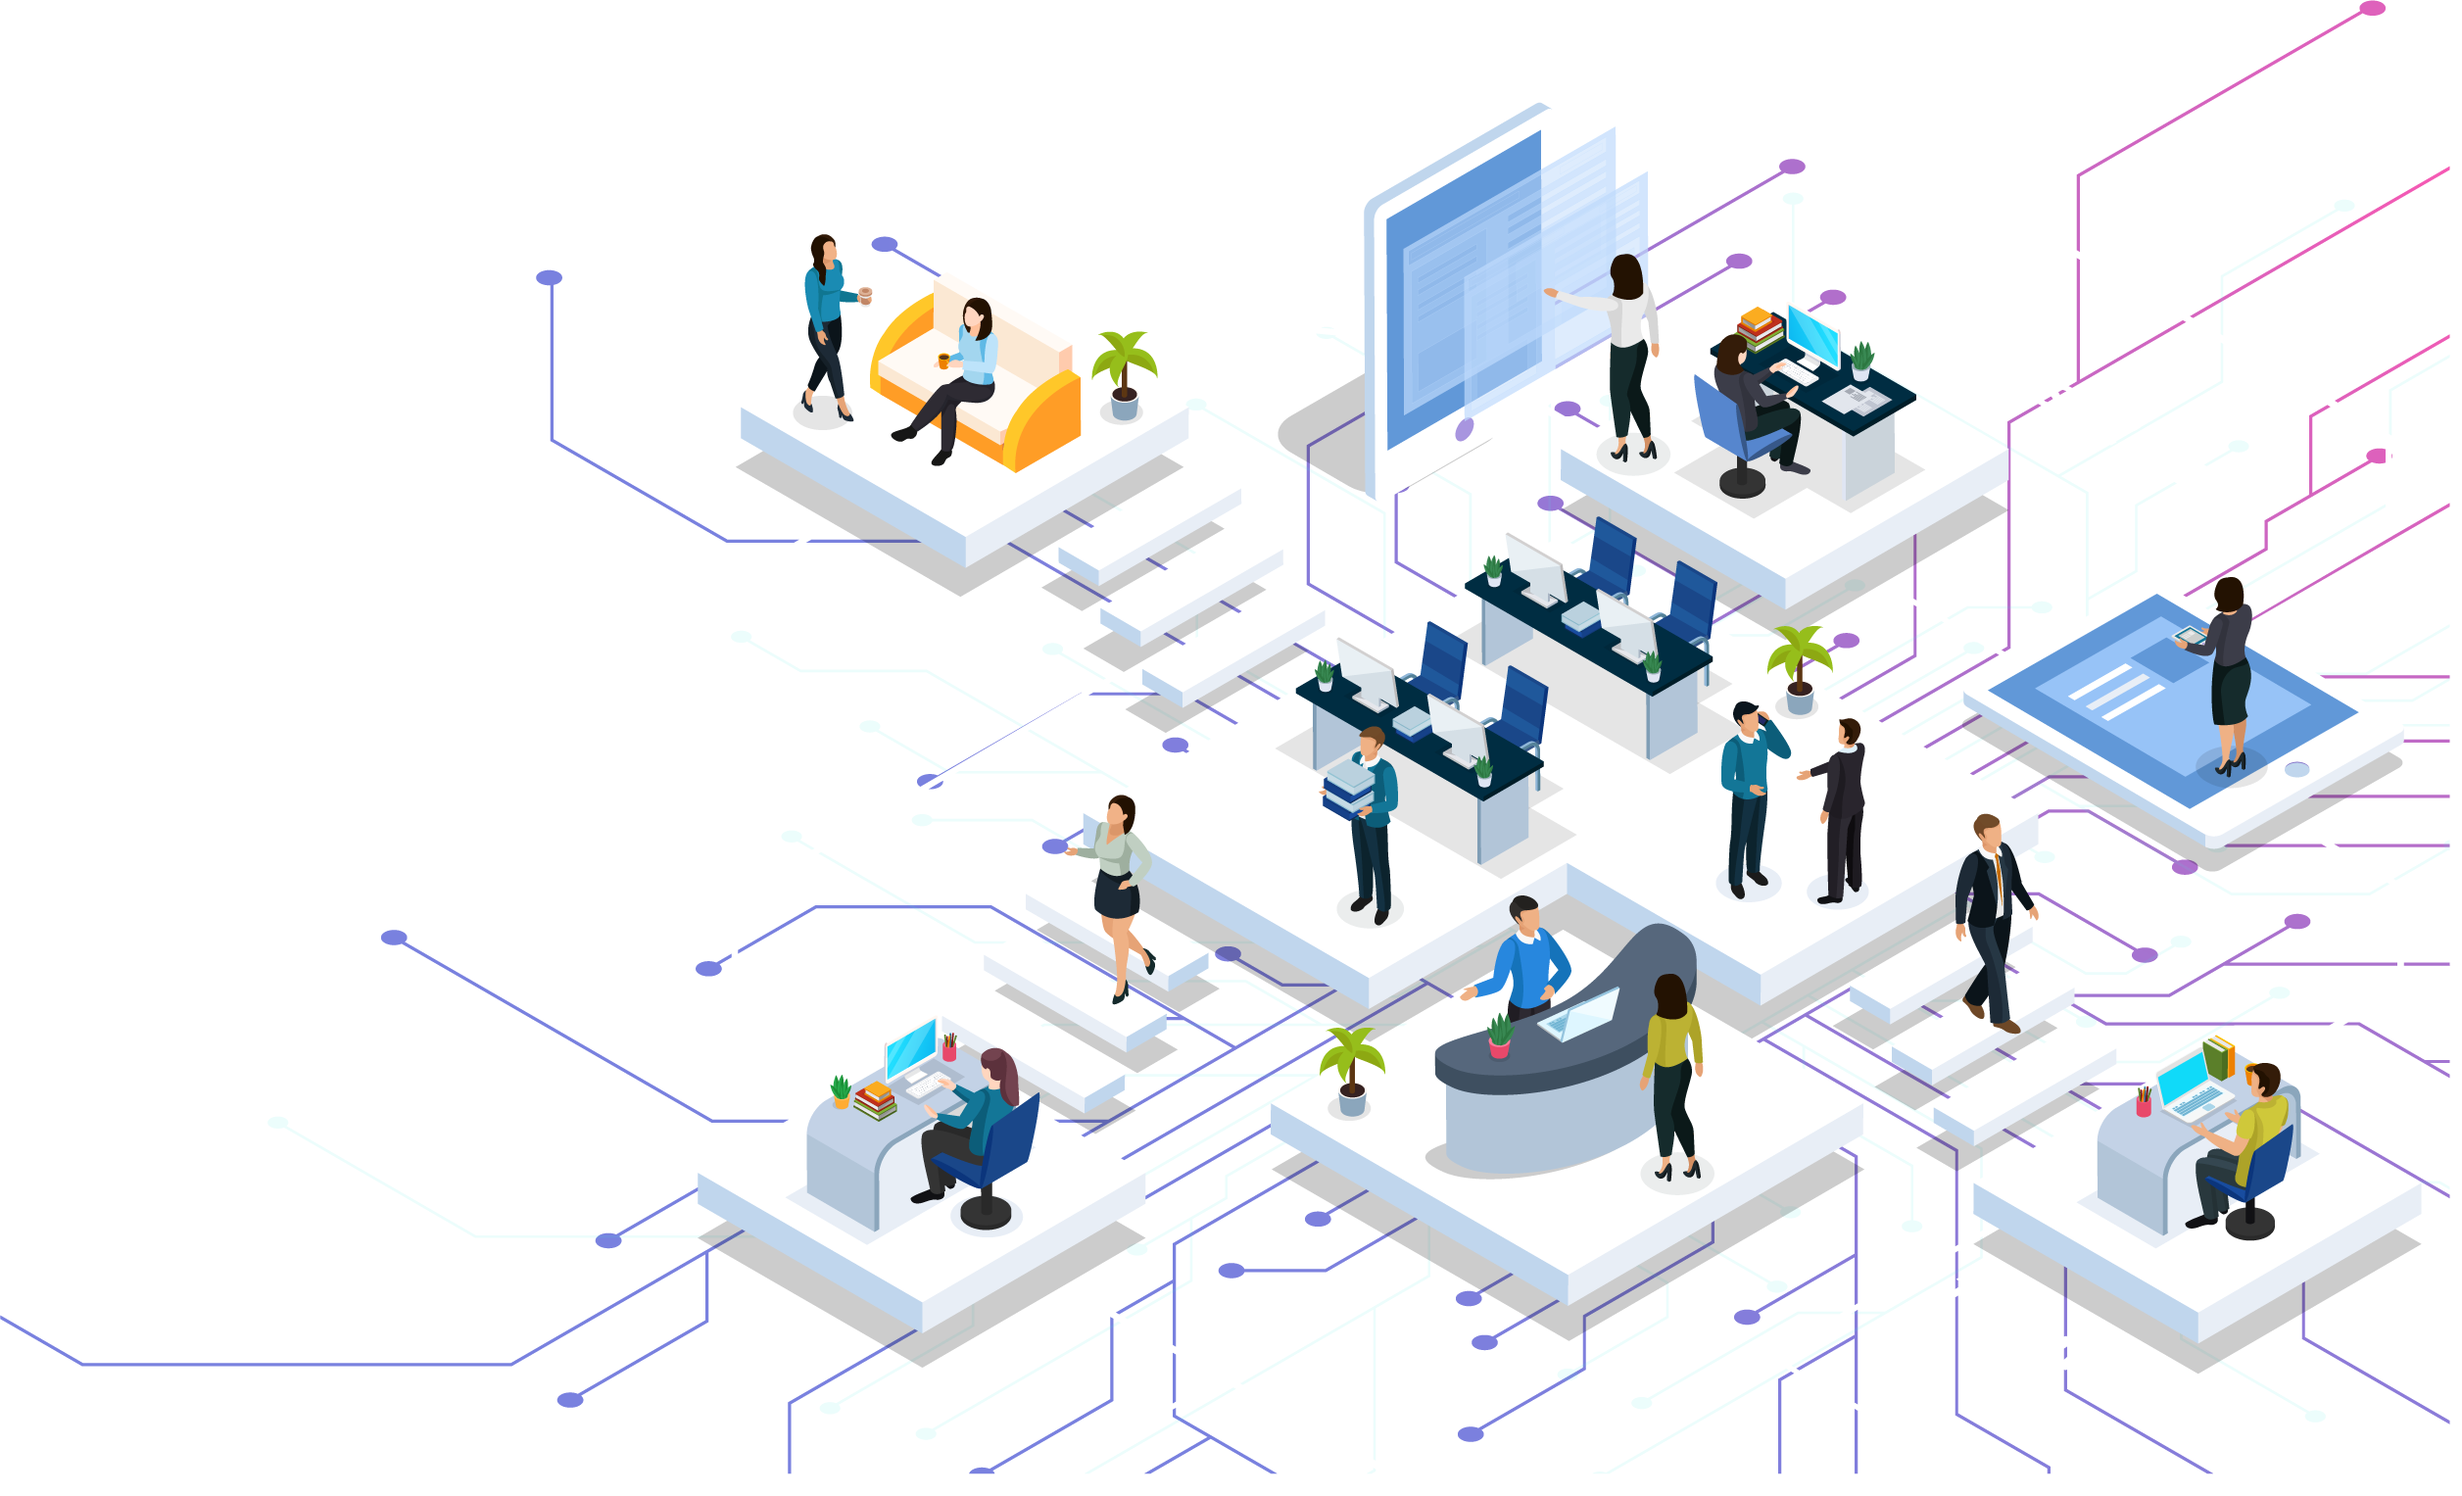
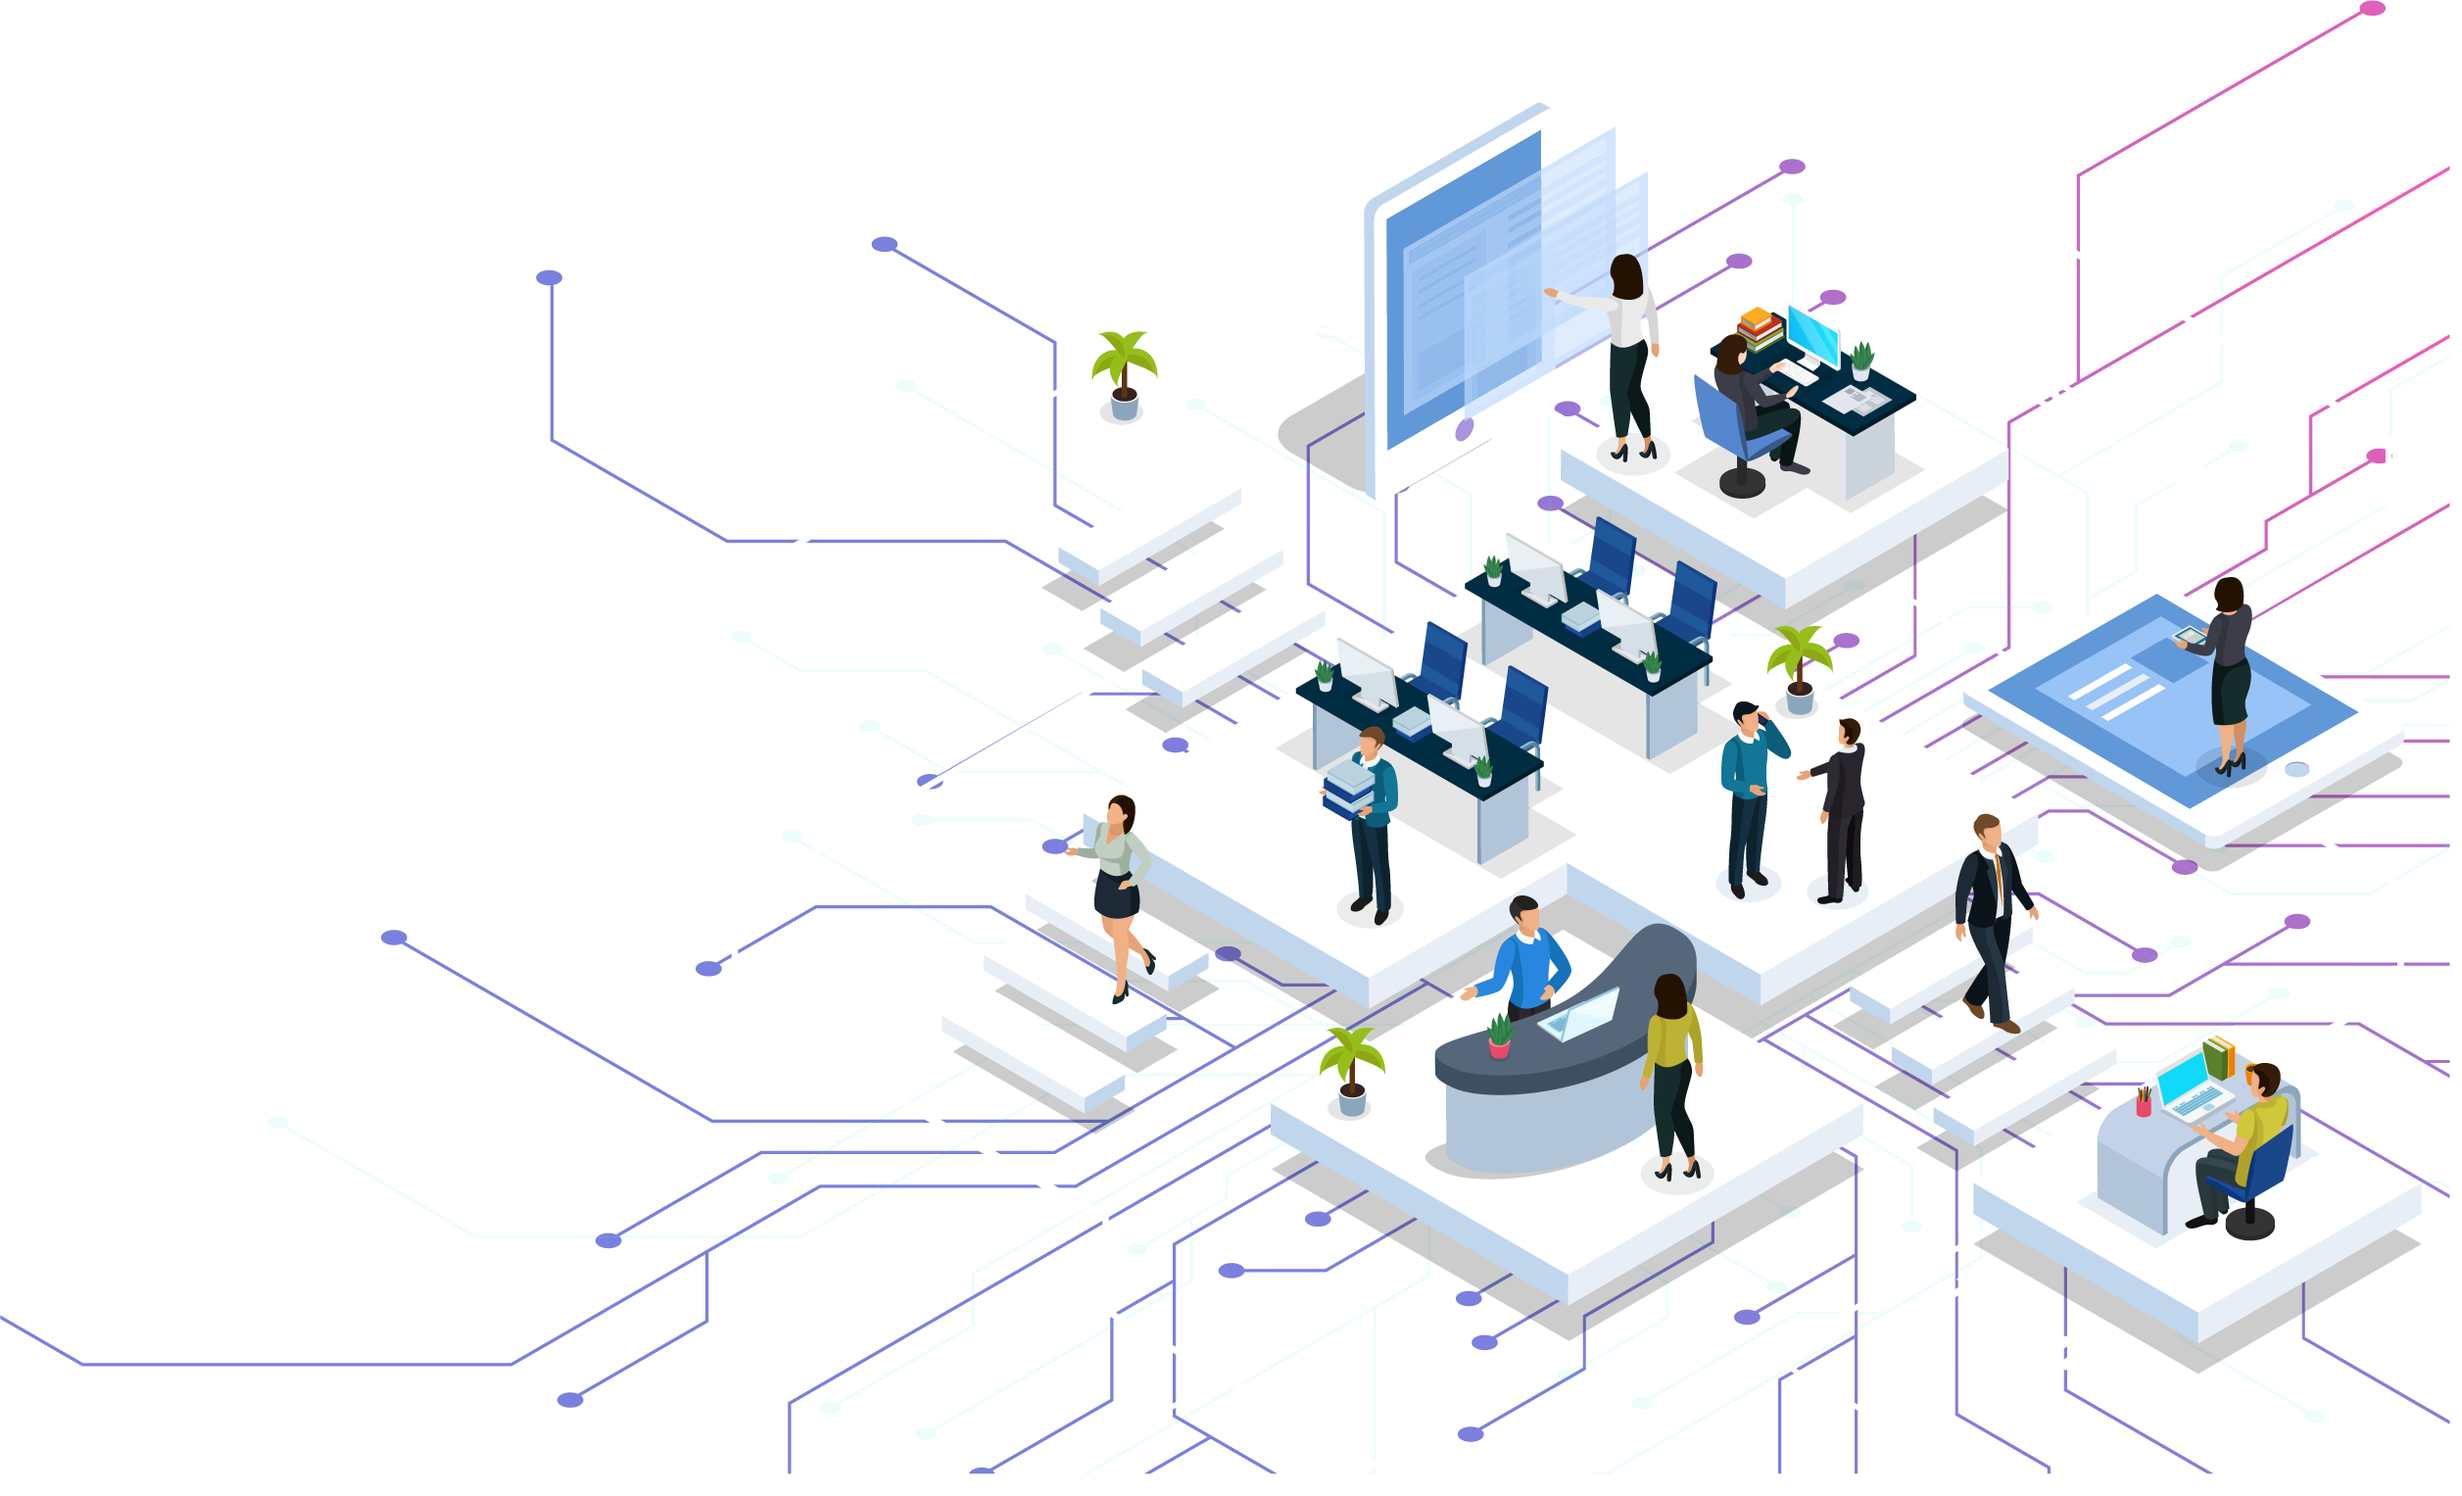
Executive hero image change

Changed region(s): [[0.2793, 0.6771, 0.4656, 0.9234], [0.2793, 0.1539, 0.4966, 0.4001]]

diff --git a/pages/executive.js b/pages/executive.js
@@ -2,9 +2,9 @@ import Navbar from "../components/UI/Navbar";
 import Footer from "../elements/Home/Footer";
 import HTMLHead from "../components/HTMLHead";
 import HeroComponent from "../elements/HeroComponent";
-import HeroImage from "../assets/images/hero.png";
-import HeroCenterImage from "../assets/images/herocenter.png";
-import {ABOUT_ID, HERO_TEXT, HERO_TITLE_1, HERO_TITLE_2} from "../assets/data";
+import HeroImage from "../assets/images/exe_hero.png";
+import HeroCenterImage from "../assets/images/exe_hero_center.png";
+import {HERO_TITLE_1} from "../assets/data";
 
 export default function Executive() {
     return (
